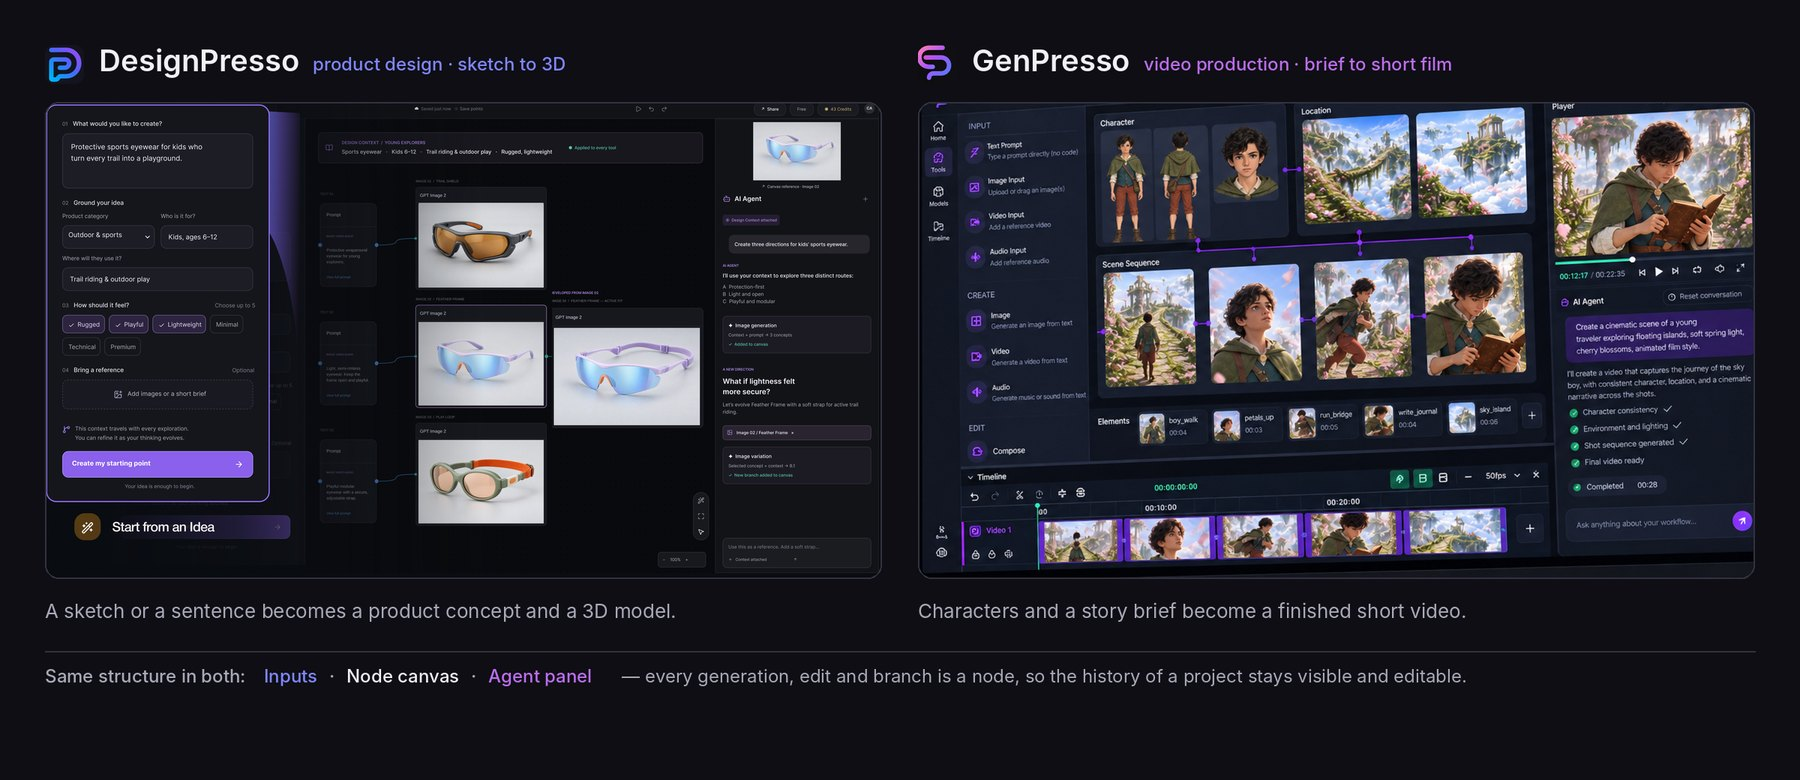
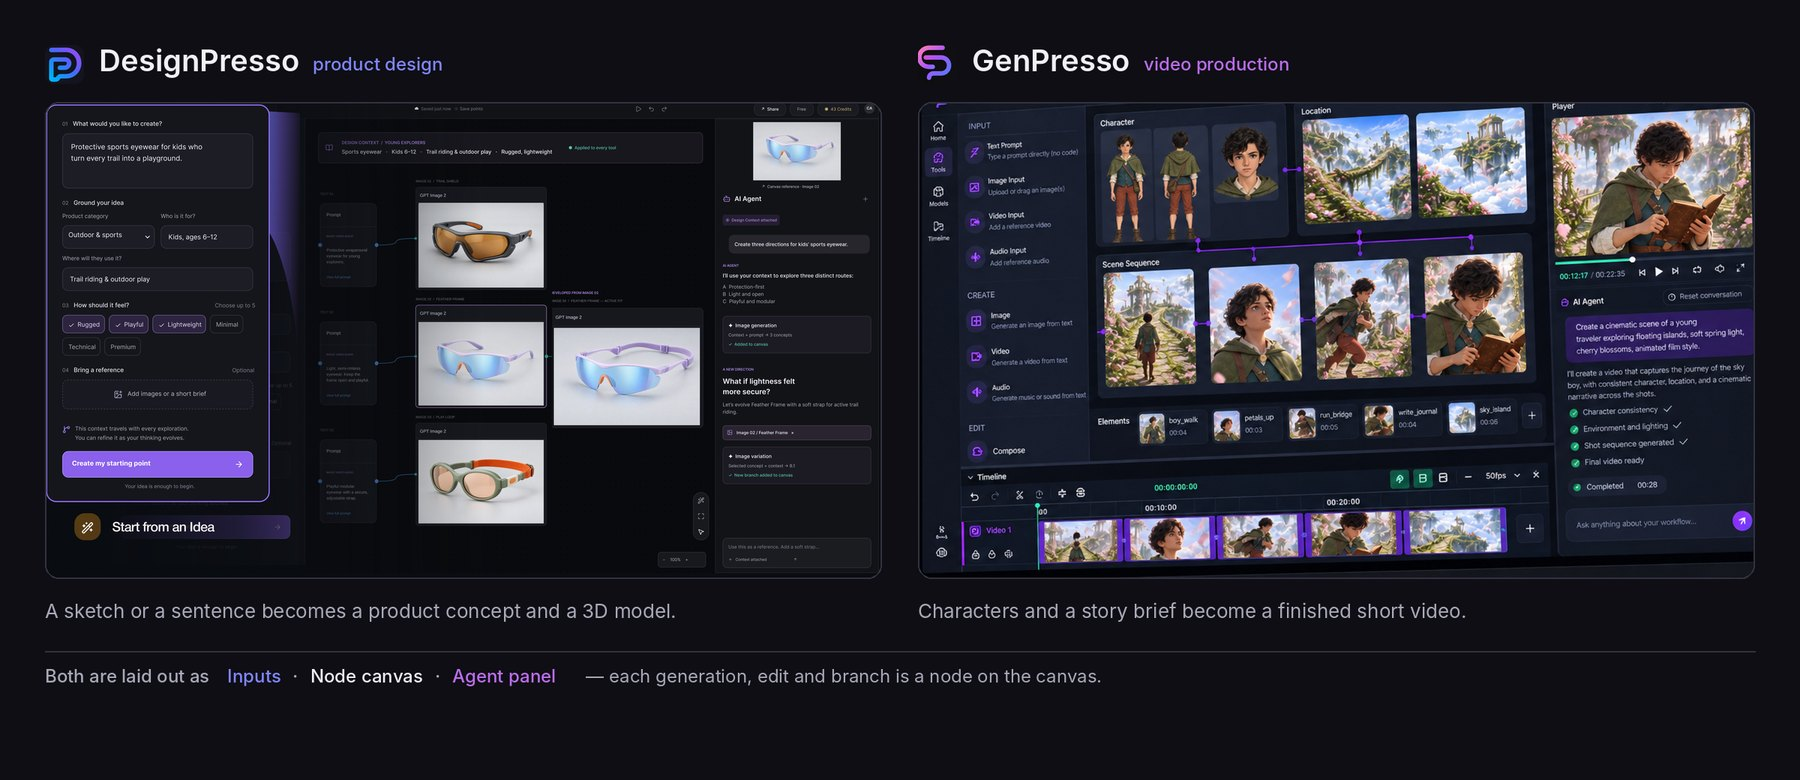
DesignPresso & GenPresso: plain figure titles, simpler intro board
Claude-Session: https://claude.ai/code/session_01Pa5gx14t8HdPSZ7VP8H42V

Changed region(s): [[0.0311, 0.8615, 0.8089, 0.8923], [0.7156, 0.0615, 0.8089, 0.0923], [0.2489, 0.0615, 0.3111, 0.0923]]

diff --git a/data/site.js b/data/site.js
@@ -273,13 +273,13 @@ const SITE = {
       cover: "assets/img/work/presso/cover.jpg",
       desc: "Two creative workspaces developed with RECON Labs. Both are built on a node canvas, where inputs, generated results and edits are connected as a graph, and on an agent that reads the project context and proposes the next step. DesignPresso takes a sketch or a sentence to a product concept and a 3D model; GenPresso takes characters and a story brief to a finished short video.",
       slides: [
-        { src: "assets/img/work/presso/01.jpg", title: "Two workspaces, one canvas", text: "DesignPresso (left) and GenPresso (right) share the same layout: inputs on the left, a node canvas in the middle, an agent panel on the right. Every generation, edit and branch is a node, so the history of a project stays visible and can be picked up again at any point." },
-        { src: "assets/img/work/presso/02.jpg", title: "DesignPresso · Context before generation", text: "The designer writes the idea and grounds it: product category, who it is for, where it is used, how it should feel. The agent attaches this context to every tool it calls, answers a request with three distinct directions, and adds each one to the canvas as a branch." },
-        { src: "assets/img/work/presso/03.jpg", title: "DesignPresso · Refining parts with guided questions", text: "Asked to vary the temple arms, the agent first splits the object into parts (frame, lens, arm, accent), asks which attribute should change, states its plan, and returns three alternatives. The parts that were not selected stay as they are." },
-        { src: "assets/img/work/presso/04.jpg", title: "DesignPresso · From concept to 3D", text: "The chosen image is turned into a mesh. Revisions can be typed or sketched on top of the model, and the result exports as GLB for preview or FBX for editing." },
-        { src: "assets/img/work/presso/05.jpg", title: "GenPresso · Casting elements", text: "Characters, locations and props are saved once as elements with an @id. Referenced in a prompt, they keep the same look across every shot, which is what holds a sequence together." },
-        { src: "assets/img/work/presso/06.jpg", title: "GenPresso · From brief to screenplay to shots", text: "From a one-line brief the agent drafts a four-scene screenplay with timings, waits for approval, then generates the image sequence for each scene with shot size and camera move written out." },
-        { src: "assets/img/work/presso/07.jpg", title: "GenPresso · Storyboard on the canvas", text: "Scenes branch on the canvas: character sheets and locations feed storyboards, storyboards feed video nodes. Each clip can be previewed in place before it goes to the timeline." },
+        { src: "assets/img/work/presso/01.jpg", title: "Overview", text: "DesignPresso (left) and GenPresso (right) share the same layout: inputs on the left, a node canvas in the middle, an agent panel on the right. Every generation, edit and branch is a node, so the history of a project stays visible and can be picked up again at any point." },
+        { src: "assets/img/work/presso/02.jpg", title: "DesignPresso · Idea and context input", text: "The designer writes the idea and grounds it: product category, who it is for, where it is used, how it should feel. The agent attaches this context to every tool it calls, answers a request with three distinct directions, and adds each one to the canvas as a branch." },
+        { src: "assets/img/work/presso/03.jpg", title: "DesignPresso · Part refinement", text: "Asked to vary the temple arms, the agent first splits the object into parts (frame, lens, arm, accent), asks which attribute should change, states its plan, and returns three alternatives. The parts that were not selected stay as they are." },
+        { src: "assets/img/work/presso/04.jpg", title: "DesignPresso · 3D model output", text: "The chosen image is turned into a mesh. Revisions can be typed or sketched on top of the model, and the result exports as GLB for preview or FBX for editing." },
+        { src: "assets/img/work/presso/05.jpg", title: "GenPresso · Element casting", text: "Characters, locations and props are saved once as elements with an @id. Referenced in a prompt, they keep the same look across every shot, which is what holds a sequence together." },
+        { src: "assets/img/work/presso/06.jpg", title: "GenPresso · Screenplay and shot sequence", text: "From a one-line brief the agent drafts a four-scene screenplay with timings, waits for approval, then generates the image sequence for each scene with shot size and camera move written out." },
+        { src: "assets/img/work/presso/07.jpg", title: "GenPresso · Storyboard canvas", text: "Scenes branch on the canvas: character sheets and locations feed storyboards, storyboards feed video nodes. Each clip can be previewed in place before it goes to the timeline." },
         { src: "assets/img/work/presso/08.jpg", title: "GenPresso · Shot edit", text: "Clips are trimmed and ordered on a multi-track timeline; the player above shows the frame under the playhead and the final cut exports from here." }
       ]
     },

diff --git a/index.html b/index.html
@@ -8,7 +8,7 @@
 <link rel="preconnect" href="https://fonts.googleapis.com">
 <link rel="preconnect" href="https://fonts.gstatic.com" crossorigin>
 <link href="https://fonts.googleapis.com/css2?family=Inter:wght@400;500;600;700&family=Newsreader:ital,wght@0,400;0,500;1,400&display=swap" rel="stylesheet">
-<link rel="stylesheet" href="assets/css/style.css?v=261015">
+<link rel="stylesheet" href="assets/css/style.css?v=261016">
 <!-- Google tag (gtag.js) -->
 <script async src="https://www.googletagmanager.com/gtag/js?id=G-CXLMQJCP3H"></script>
 <script>
@@ -51,8 +51,8 @@
 
 <footer class="foot" id="foot"></footer>
 
-<script src="data/site.js?v=261015"></script>
-<script src="assets/js/hero.js?v=261015"></script>
-<script src="assets/js/app.js?v=261015"></script>
+<script src="data/site.js?v=261016"></script>
+<script src="assets/js/hero.js?v=261016"></script>
+<script src="assets/js/app.js?v=261016"></script>
 </body>
 </html>
